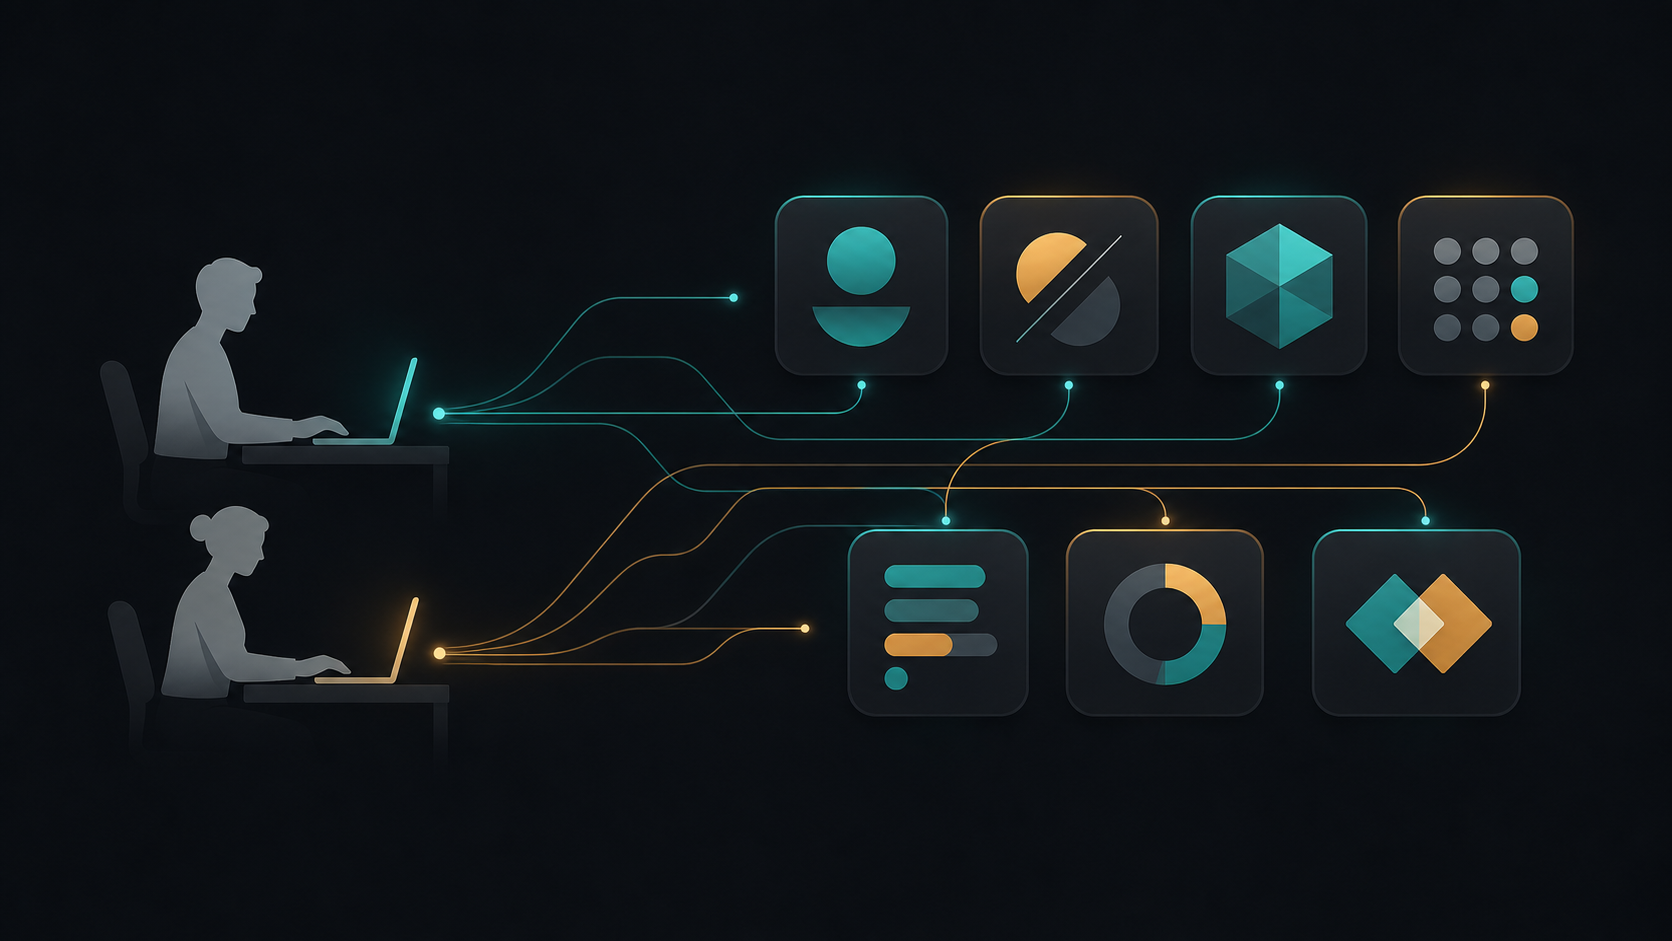
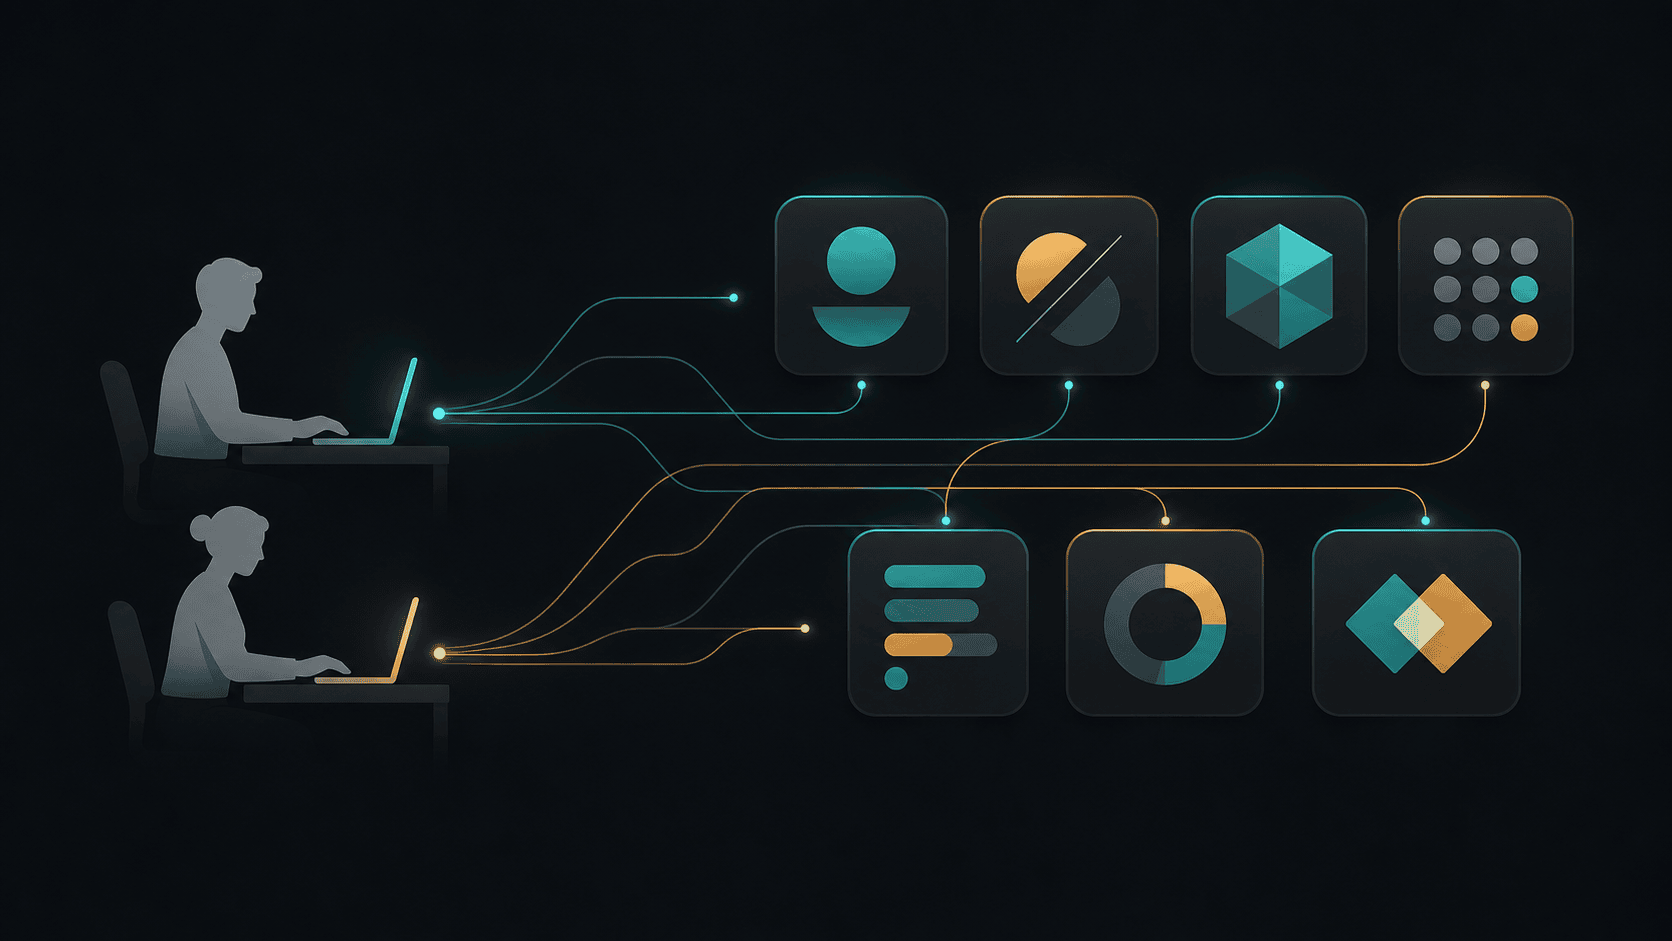
Optimize: compress images (pngquant), fix CLS width/height, editor-in-chief polish
md_to_html review: pngquant compression (-68%), width/height attrs to prevent layout shift
editor-in-chief review: removed meta commentary sentence, converted playbook steps to markdown list

🤖 Generated with Claude Code

diff --git a/index.html b/index.html
@@ -242,7 +242,7 @@
 <body>
 
 <figure class="summary-figure">
-  <img src="images/cover.png" alt="扁平風格插畫：一支手機發著光顯示抽象的影片廣告介面，向背景多個小型建築物圖示放射出觸及箭頭，象徵一支AI廣告觸及許多公司" loading="eager">
+  <img src="images/cover.png" alt="扁平風格插畫：一支手機發著光顯示抽象的影片廣告介面，向背景多個小型建築物圖示放射出觸及箭頭，象徵一支AI廣告觸及許多公司" width="1672" height="941" loading="eager">
   <figcaption class="summary-caption">象徵圖：一支AI廣告，能同時觸及一百家公司（點圖放大）</figcaption>
 </figure>
 
@@ -272,7 +272,7 @@
 
 <h2 id="sec-intro">五個步驟，六個月，一百萬美元</h2>
 <p>如果你現在想靠AI影片賺到人生第一個一百萬美元，Roy Lee給的答案短到只要五步：找一套AI影片生成工具、找一百家剛拿到創投資金的軟體公司、免費幫每一家做一支廣告、每天寄信告訴對方「這支廣告免費送你，有效再談合作」、重複十六次。他甚至在節目上算給主持人聽：一家願意留下來按月付費一萬美元，十六家就是一年一百九十二萬美元，六個月要達標，把家數再往上加就好。</p>
-<p>聽起來像是那種你划手機划到一半、划過就忘的「賺錢祕訣」。但講這套話的人不是隨便一個網紅——他是Cluely的共同創辦人Roy Lee，一家兩年前才成立、目前只靠兩名全職工程師維護七個產品的公司，而這七個產品裡多數年營收超過百萬美元。這篇文章想拆的，是他這套操作邏輯到底站不站得住腳，以及站不住腳的地方在哪裡。</p>
+<p>聽起來像是那種你划手機划到一半、划過就忘的「賺錢祕訣」。但講這套話的人不是隨便一個網紅——他是Cluely的共同創辦人Roy Lee，一家兩年前才成立、目前只靠兩名全職工程師維護七個產品的公司，而這七個產品裡多數年營收超過百萬美元。值得細看的，不只是這套操作邏輯本身，還有它站不住腳的地方在哪裡。</p>
 
 <h2 id="sec-who">在往下讀之前，你該知道這個人是誰</h2>
 <p>Roy Lee會出現在鏡頭前，起點是一場刻意設計的鬧劇。他和共同創辦人Neel Shanmugam原本在哥倫比亞大學讀書，做了一個叫Interview Coder的工具，讓使用者可以在技術面試裡「作弊」——公開展示自己用這個工具通過Amazon的技術面試後，兩人被學校停學。他們沒有低調處理，反而把整個停學事件包裝成行銷素材，工具改名Cluely，主打「幫你在任何場合作弊」，隨後拿到Abstract Ventures、Susa Ventures領投的530萬美元種子輪，再加上a16z領投的1500萬美元A輪，外界推估估值約1.2億美元——這也是這集節目標題「$120M CEO」的由來，但這個估值數字公司和a16z都沒有正式證實過。</p>
@@ -313,7 +313,7 @@
 <p>Roy Lee說，Cluely現在的營運方式，跟他看過的所有公司都不一樣。公司裡只有兩名全職工程師，這是他認為現在多數A輪、種子輪新創的正常配置——因為寫程式碼這件事，現在一個完全沒經驗的工程師配上AI，寫出來的品質已經跟資深工程師沒有差別。在這個前提下，Cluely旗下維持了七個軟體產品同時運作，而且他說這七個裡面，幾乎每一個年營收都超過一百萬美元——換作是傳統的做法，光是其中一個產品可能就要一個二十人的團隊做三到六個月，現在一個工程師的一個下午就能做出雛形。</p>
 
 <figure class="section-figure">
-  <img src="images/two-engineers-seven-products.png" alt="極簡向量插畫：左邊兩個小人形在筆電前工作，發光的細線連向右邊排列成網格的七個抽象app圖示方塊，象徵一個小團隊營運多個軟體產品" loading="lazy">
+  <img src="images/two-engineers-seven-products.png" alt="極簡向量插畫：左邊兩個小人形在筆電前工作，發光的細線連向右邊排列成網格的七個抽象app圖示方塊，象徵一個小團隊營運多個軟體產品" width="1672" height="941" loading="lazy">
   <figcaption>象徵圖：兩個人，七條線，七個產品</figcaption>
 </figure>
 

diff --git a/roy_lee_ai_gold_rushes.md b/roy_lee_ai_gold_rushes.md
@@ -22,7 +22,7 @@ sources:
 
 如果你現在想靠AI影片賺到人生第一個一百萬美元，Roy Lee給的答案短到只要五步：找一套AI影片生成工具、找一百家剛拿到創投資金的軟體公司、免費幫每一家做一支廣告、每天寄信告訴對方「這支廣告免費送你，有效再談合作」、重複十六次。他甚至在節目上算給主持人聽：一家願意留下來按月付費一萬美元，十六家就是一年一百九十二萬美元，六個月要達標，把家數再往上加就好。
 
-聽起來像是那種你划手機划到一半、划過就忘的「賺錢祕訣」。但講這套話的人不是隨便一個網紅——他是Cluely的共同創辦人Roy Lee，一家兩年前才成立、目前只靠兩名全職工程師維護七個產品的公司，而這七個產品裡多數年營收超過百萬美元。這篇文章想拆的，是他這套操作邏輯到底站不站得住腳，以及站不住腳的地方在哪裡。
+聽起來像是那種你划手機划到一半、划過就忘的「賺錢祕訣」。但講這套話的人不是隨便一個網紅——他是Cluely的共同創辦人Roy Lee，一家兩年前才成立、目前只靠兩名全職工程師維護七個產品的公司，而這七個產品裡多數年營收超過百萬美元。值得細看的，不只是這套操作邏輯本身，還有它站不住腳的地方在哪裡。
 
 ## 在往下讀之前，你該知道這個人是誰
 
@@ -38,7 +38,13 @@ Roy Lee把現在能靠AI賺錢的機會分成三層。最頂端是替AI實驗室
 
 ## 那套六個月百萬美元的具體步驟
 
-回到開頭那套步驟，Roy Lee講得比想像中更具體。第一步，找一套像Kling 2.5這樣的AI影片生成工具。第二步，找一百家最近拿到超過一千萬美元創投資金的軟體公司——這個篩選條件不是隨便挑的，代表對方有錢，也有花錢做行銷的動機。第三步，替每一家做一支你自己看了會想看下去的廣告。第四步，每天寄信給這一百家公司，內容固定：「這支廣告我免費做給你，你可以直接拿去投放。如果有效，把我變成你的固定配合對象，我每個月收你一萬美元，持續幫你做更多廣告，我保證能幫你賺錢。如果沒效，這封信就當作沒看到。」第五步，重複這個流程，直到有人回信為止。
+回到開頭那套步驟，Roy Lee講得比想像中更具體：
+
+1. 找一套像Kling 2.5這樣的AI影片生成工具。
+2. 找一百家最近拿到超過一千萬美元創投資金的軟體公司——這個篩選條件不是隨便挑的，代表對方有錢，也有花錢做行銷的動機。
+3. 替每一家做一支你自己看了會想看下去的廣告。
+4. 每天寄信給這一百家公司，內容固定：「這支廣告我免費做給你，你可以直接拿去投放。如果有效，把我變成你的固定配合對象，我每個月收你一萬美元，持續幫你做更多廣告，我保證能幫你賺錢。如果沒效，這封信就當作沒看到。」
+5. 重複這個流程，直到有人回信為止。
 
 他給年輕人的建議，重點不在工具好不好用，而在一件他認為年輕人天生就有、但自己完全沒意識到的優勢：因為你花了十幾年時間在TikTok和Instagram Reels上滑手機，你已經練出了「這支影片無不無聊」的直覺判斷力，而這正是做出有效AI廣告唯一需要的技能。他舉的反例是那些四五十歲、在Facebook上什麼AI生成的長篇大論都照單全收、還轉發給孫子說「這篇寫得真好」的人——這群人完全沒有經過演算法訓練出來的那種對無聊內容的免疫力，也因此做不出年輕人能做出來的東西。
 
